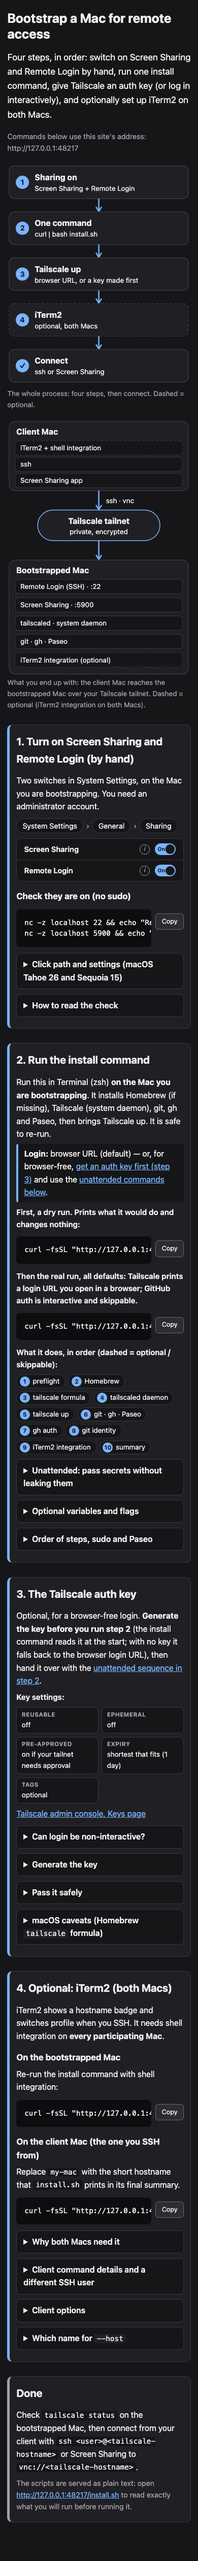
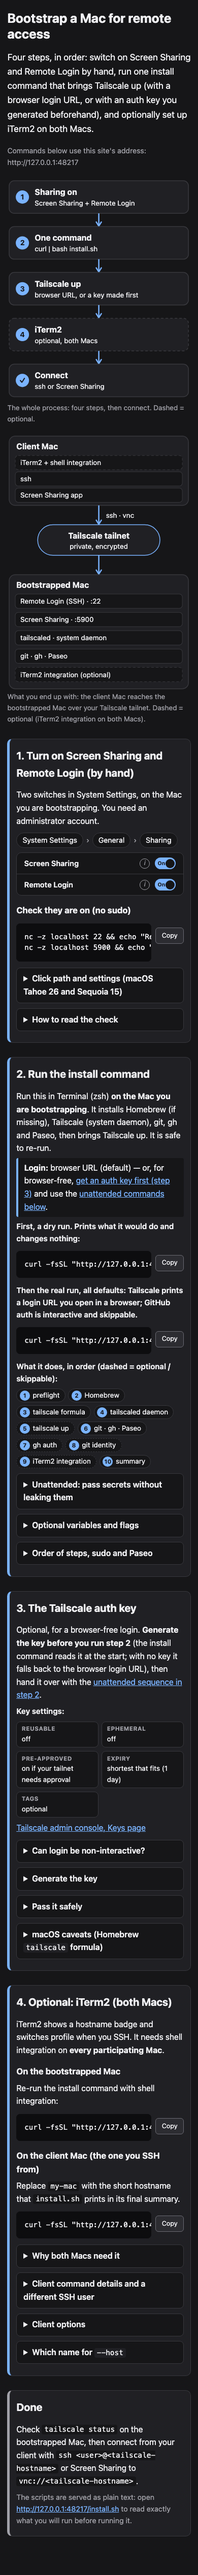
fix(site): hero wording order, aria-live copy status

Changed region(s): [[0.0308, 0.0, 0.9538, 0.9649], [0.7692, 0.1868, 0.8, 0.2179], [0.0308, 0.5914, 0.0615, 0.6225]]

diff --git a/public/index.html b/public/index.html
@@ -91,9 +91,10 @@ td code,th code{overflow-wrap:anywhere}
 </head>
 <body>
 <main>
+<div id="copy-status" class="sr" role="status" aria-live="polite"></div>
 <header class="hero">
 <h1>Bootstrap a Mac for remote access</h1>
-<p class="lead">Four steps, in order: switch on Screen Sharing and Remote Login by hand, run one install command, give Tailscale an auth key (or log in interactively), and optionally set up iTerm2 on both Macs.</p>
+<p class="lead">Four steps, in order: switch on Screen Sharing and Remote Login by hand, run one install command that brings Tailscale up (with a browser login URL, or with an auth key you generated beforehand), and optionally set up iTerm2 on both Macs.</p>
 <p id="origin-note" class="origin">Commands below are built from this page's address.</p>
 <noscript><p class="note">JavaScript is off, so commands show the literal placeholder <code>&lt;your-site&gt;</code>. Replace it with the address of this page.</p></noscript>
 <figure>
@@ -329,7 +330,11 @@ nc -z localhost 5900 &amp;&amp; echo "Screen Sharing: listening"</code></pre><bu
   document.querySelectorAll("button[data-copy]").forEach(function (b) {
     b.addEventListener("click", function () {
       var text = document.getElementById(b.getAttribute("data-copy")).textContent;
+      var what = (b.getAttribute("aria-label") || "").replace(/^Copy /, "");
+      var status = document.getElementById("copy-status");
       var done = function (ok) {
+        status.textContent = "";
+        status.textContent = ok ? "Copied: " + what : "Copy failed, press Cmd+C: " + what;
         b.textContent = ok ? "Copied" : "Press Cmd+C";
         setTimeout(function () { b.textContent = "Copy"; }, 1800);
       };
